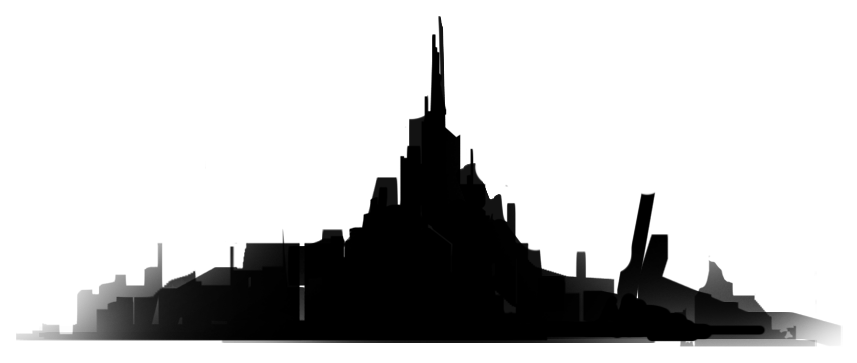
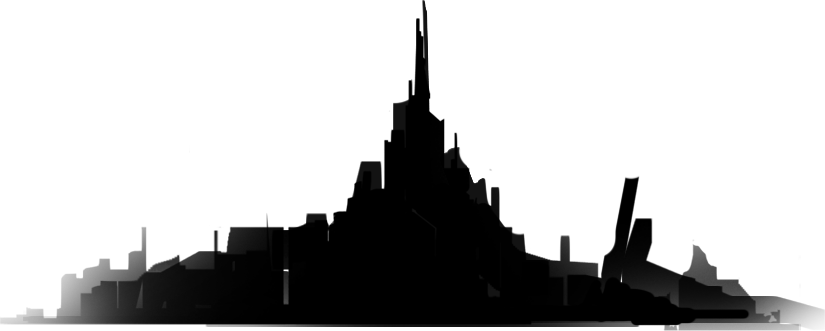
Align facility skyline flush with bottom hazard rail.
Crop transparent padding from the city marks asset and seat it on the alert stripe; keep rise animation opacity matched to the static rule.

diff --git a/src/components/abnormality-catalog.tsx b/src/components/abnormality-catalog.tsx
@@ -29,8 +29,8 @@ export function AbnormalityBoard() {
               className="brand-hero-marks"
               src="/brand/facility-marks.png"
               alt=""
-              width={620}
-              height={340}
+              width={825}
+              height={331}
             />
             {/* eslint-disable-next-line @next/next/no-img-element */}
             <img
